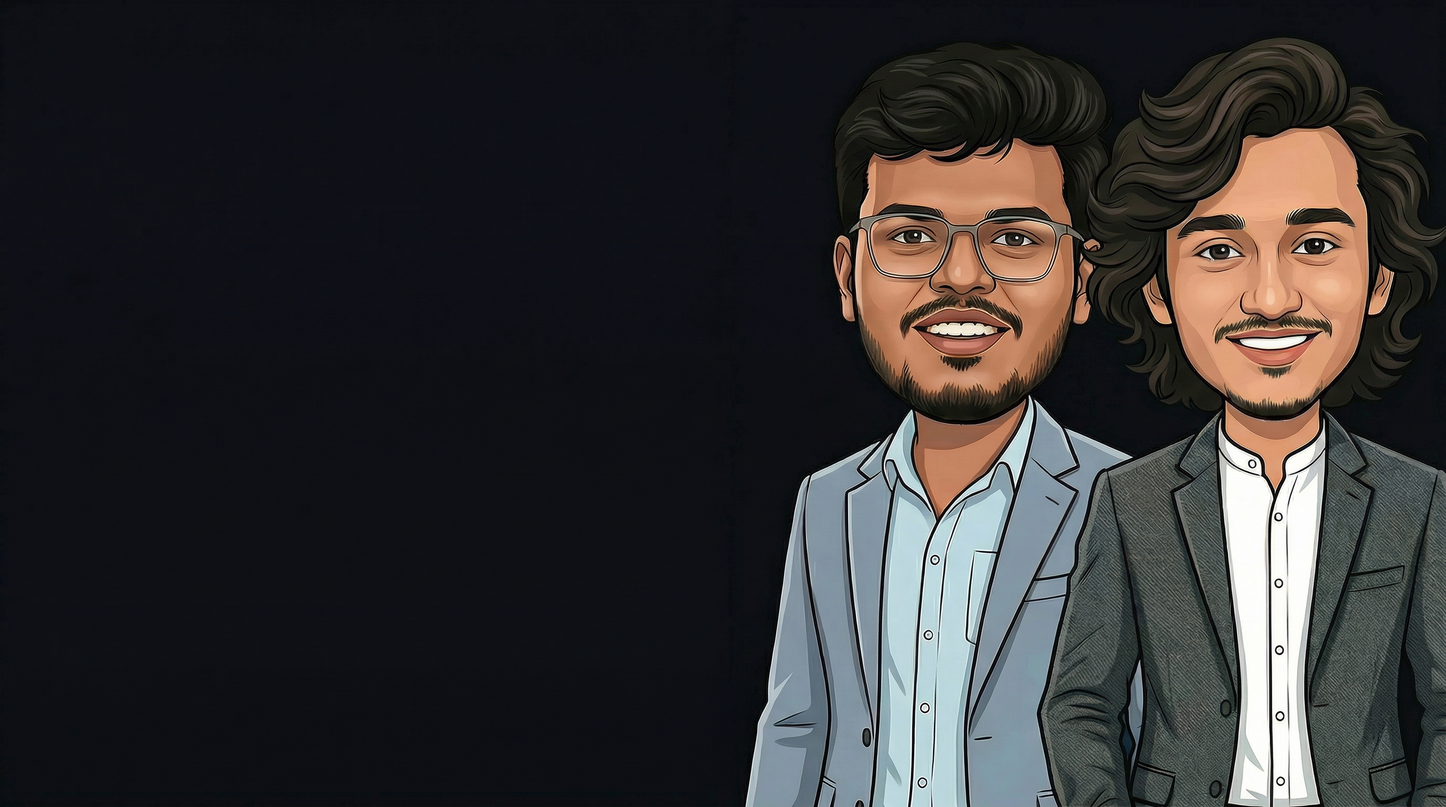
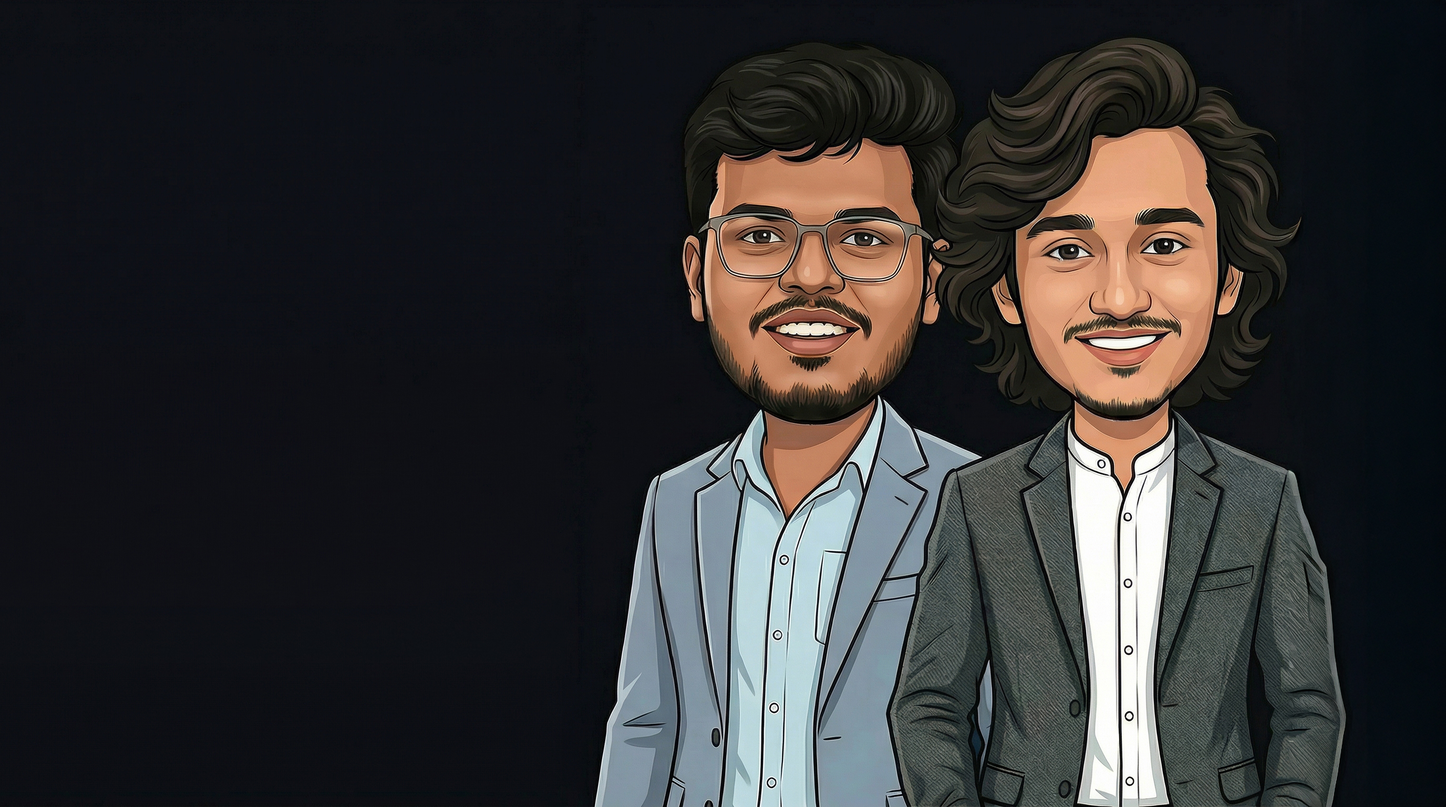
feat(assets, CaseStudies): add new creative assets and update component references
- Added multiple new image assets to the public/ui-creative directory for enhanced branding representation.
- Updated the CaseStudies component to include references to the new creative assets, improving visual engagement.
- Refactored the App and Hero components for better layout and responsiveness.

diff --git a/src/components/Hero.tsx b/src/components/Hero.tsx
@@ -29,7 +29,7 @@ export function Hero() {
       {/* Full-bleed hero background image (behind content). */}
       <div className="pointer-events-none absolute inset-0">
         <div
-          className="absolute inset-0 bg-cover bg-no-repeat [background-image:var(--hero-bg)] bg-position-[84%_10%] sm:bg-position-[58%_12%] lg:bg-position-[50%_40%]"
+          className="absolute inset-0 bg-cover bg-no-repeat [background-image:var(--hero-bg)] bg-position-[84%_10%] sm:bg-position-[58%_12%] lg:bg-position-[64%_40%]"
           style={
             {
               '--hero-bg': `url("${HERO_BG}")`,
@@ -41,20 +41,23 @@ export function Hero() {
 
         <BackgroundBeams className="opacity-25" />
       </div>
-      <div className="max-w-7xl mx-auto px-4 sm:px-6 lg:px-8 relative z-10">
-        <div className="grid lg:grid-cols-12 gap-12 items-center">
-          <div ref={contentRef} className="lg:col-span-7">
+      <div className="max-w-7xl mx-auto px-4 sm:px-6 lg:pl-8 lg:pr-12 relative z-10">
+        <div className="grid lg:grid-cols-12 gap-8 lg:gap-10 items-center">
+          <div
+            ref={contentRef}
+            className="lg:col-span-6 w-full max-w-2xl sm:max-w-3xl lg:max-w-4xl overflow-visible relative z-20 -ml-3 sm:-ml-4 lg:-ml-8 xl:-ml-10 2xl:-ml-12"
+          >
             <div className="inline-flex items-center px-3 py-1 rounded-full bg-white/5 text-gray-200 text-xs font-semibold tracking-wide uppercase mb-6 border border-white/10">
               Creative studio • Marketing partner
             </div>
-            <h1 className="text-5xl lg:text-7xl font-extrabold tracking-tight text-white leading-[1.05] mb-6 mt-17">
-              Creative Design{' '}
-              <span className="text-transparent bg-clip-text bg-size-[180%_180%] bg-position-[40%_45%] bg-[linear-gradient(125deg,#1a0404_0%,#3d0c0c_22%,#5c1212_42%,#8b1818_62%,#b91f1f_82%,#e03030_100%)]">
+            <h1 className="text-4xl sm:text-5xl lg:text-7xl font-extrabold tracking-tight text-white leading-[1.08] mb-6 mt-17">
+              <span className="block whitespace-nowrap">Creative Design</span>
+              <span className="block w-max max-w-full whitespace-nowrap text-transparent pb-2 bg-clip-text bg-size-[180%_180%] bg-position-[40%_45%] bg-[linear-gradient(125deg,#1a0404_0%,#3d0c0c_22%,#5c1212_42%,#8b1818_62%,#b91f1f_82%,#e03030_100%)]">
                 Smart Marketing
-              </span>{' '}
-              Real Impact
+              </span>
+              <span className="block whitespace-nowrap">Real Impact</span>
             </h1>
-            <p className="text-lg text-gray-300/90 mb-10 max-w-2xl leading-relaxed mt-20">
+            <p className="text-lg text-gray-300/90 mb-10 max-w-md lg:max-w-lg leading-relaxed mt-20">
               We help brands across every industry grow through thoughtful design and results-driven marketing.
             </p>
 

diff --git a/src/components/CaseStudies.tsx b/src/components/CaseStudies.tsx
@@ -19,6 +19,27 @@ const UI_CREATIVE: { file: string; title: string }[] = [
     { file: "AIU-men's-champions.jpg", title: "AIU Men's Champions" },
     { file: "AIU-men's-runner-up.jpg", title: "AIU Men's Runner-up" },
     { file: "AIU-men's-Third-Place.jpg", title: "AIU Men's Third Place" },
+    { file: 'Artboard 1.jpg', title: 'Turakhia Optics — creative' },
+    { file: 'Artboard 6.jpg', title: 'Turakhia Optics — smiley' },
+    { file: 'Artboard 7.jpg', title: 'Turakhia Optics — artboard' },
+    { file: 'Baarish-poser-1.jpg', title: 'Baarish poster' },
+    { file: 'bulgari-bv- 8255b - 501-87 -3Artboard 1.jpg', title: 'Bvlgari 8255b — concept A' },
+    { file: 'bulgari-bv- 8255b - 501-87 -3Artboard 2.jpg', title: 'Bvlgari 8255b — concept B' },
+    { file: 'Bvlgari 6184 B 2014P5.jpg', title: 'Bvlgari 6184' },
+    { file: 'MAC-Desktop-CLP-MUP-Product-In-Spotlight.jpg', title: 'MAC — desktop spotlight' },
+    { file: 'Masstige MUP Mobile.jpg', title: 'Masstige makeup — mobile' },
+    { file: 'prada sps 07w 1.jpg', title: 'Prada SPS 07W' },
+    { file: 'Prada SPS 55w 1.jpg', title: 'Prada SPS 55W' },
+    { file: 'Prada VPR 15Y.jpg', title: 'Prada VPR 15Y' },
+    { file: 'saint laurent 1 .jpg', title: 'Saint Laurent — creative A' },
+    { file: 'saint laurent 3.jpg', title: 'Saint Laurent — creative B' },
+    { file: 'Task-for-Visualiser-1.jpg', title: 'Visualiser task' },
+    {
+        file: 'Treehut-Mobile-CLP-Bath-&-Body-Product-In-Spotlight.jpg',
+        title: 'Tree Hut — mobile spotlight',
+    },
+    { file: '1...jpg', title: 'Social creative' },
+    { file: '1.jpg', title: 'Turakhia Optics — Seas the day' },
 ];
 
 function assetUrl(folder: 'mailer' | 'ui-creative', file: string) {

diff --git a/src/components/Navbar.tsx b/src/components/Navbar.tsx
@@ -31,7 +31,7 @@ export function Navbar() {
   ];
 
   return (
-    <div className="fixed inset-x-0 top-0 z-50 flex justify-center pt-3 sm:pt-4 pointer-events-none px-3 sm:px-4 translate-x-6">
+    <div className="fixed inset-x-0 top-0 z-50 flex justify-center pt-3 sm:pt-4 pointer-events-none px-3 sm:px-4">
       <nav
         id="navbar"
         className="pointer-events-auto relative w-full max-w-5xl overflow-hidden rounded-2xl border border-white/[0.12] bg-zinc-950/55 shadow-[0_8px_40px_rgba(0,0,0,0.55),inset_0_1px_0_rgba(255,255,255,0.06)] backdrop-blur-2xl backdrop-saturate-150 transition-[box-shadow,transform] duration-500 hover:shadow-[0_12px_48px_rgba(0,0,0,0.6),0_0_0_1px_rgba(96,165,250,0.12),inset_0_1px_0_rgba(255,255,255,0.08)]"

diff --git a/src/components/Preloader.tsx b/src/components/Preloader.tsx
@@ -35,7 +35,7 @@ export function Preloader({ onComplete }: { onComplete: () => void }) {
   }, [onComplete]);
 
   return (
-    <div ref={containerRef} className="fixed inset-0 bg-black z-[100] flex flex-col items-center justify-center overflow-hidden translate-x-6">
+    <div ref={containerRef} className="fixed inset-0 bg-black z-[100] flex flex-col items-center justify-center overflow-hidden">
       <div className="absolute top-10 flex items-center space-x-2">
         <div className="w-2 h-2 bg-pink-500"></div>
         <span className="text-white text-[10px] uppercase tracking-[0.2em] font-medium">Delivering firsts</span>

diff --git a/src/App.tsx b/src/App.tsx
@@ -33,7 +33,7 @@ function App() {
     <div className="bg-black min-h-screen font-sans selection:bg-blue-500/30 selection:text-white">
       {isLoading && <Preloader onComplete={() => setIsLoading(false)} />}
       <Navbar />
-      <div className={`relative left-6 ${isLoading ? 'h-screen overflow-hidden' : ''}`}>
+      <div className={isLoading ? 'h-screen overflow-hidden' : ''}>
         <Hero />
         <Marquee />
         <TextReveal />
